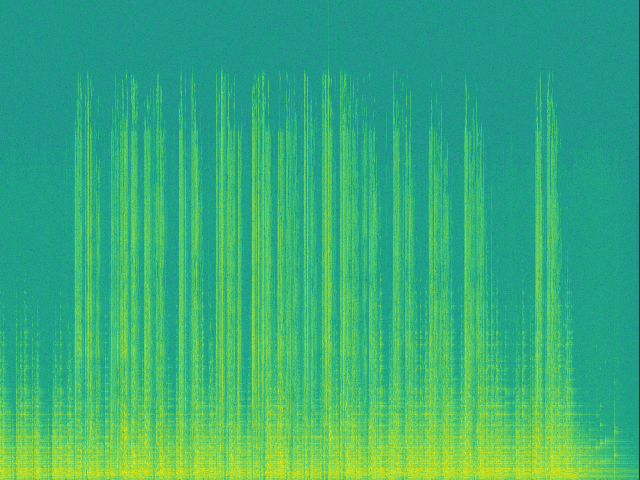
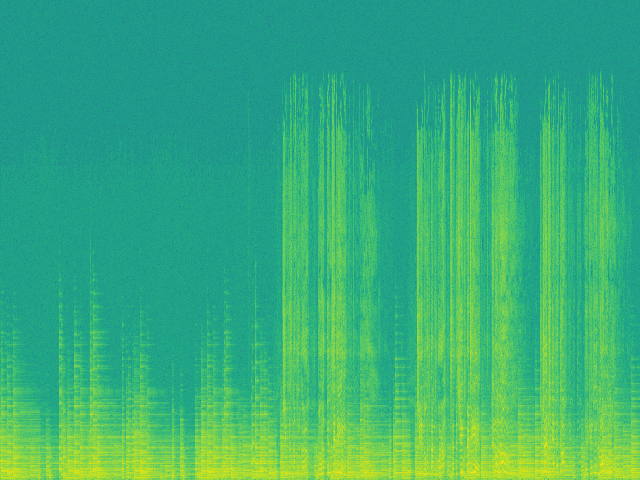
shortened the input song sample to 50 seconds so it processes faster

diff --git a/python/spectrogram.py b/python/spectrogram.py
@@ -1,8 +1,8 @@
 import sys
 import os, json
-# import numpy as np
-# import matplotlib.pyplot as plot
-# import audiosegment
+import numpy as np
+import matplotlib.pyplot as plot
+import audiosegment
 # from memory_profiler import profile
 
 # audiosegment.converter = '/usr/local/Cellar/ffmpeg/4.4_2'
@@ -15,27 +15,28 @@ import os, json
 # filename = "/Users/arthurdoelp/dev/projects/python-projects/music-vision/python/uploads/03_Baby_Cant_Leave_it_Alone.m4a"
 filename = '03_Baby_Cant_Leave_it_Alone.m4a'
 # filepath = os.path.abspath(os.path.join("python/uploads", filename))
-# filepath = os.path.abspath(os.path.join("uploads", filename))
+filepath = os.path.abspath(os.path.join("python/uploads", filename))
 file_id = filename[:-4]
-# # file_id = filename[13:-4]
-# # file_id = filename[69:-4]
-# # Create the audiosegment file
-# seg = audiosegment.from_file(filepath)
-# # Convert any 2 channel tracks to mono so that it can be converted into a spec
-# seg = seg.set_channels(1)
-# # Create the spectrogram
-# freqs, times, amplitudes = seg.spectrogram(window_length_s=.03, overlap=.5)
-# amplitudes = 10 * np.log10(amplitudes + 1e-9)
-# # Plot the spectrogram using time as the x axis, frequency as y axis and amplitude as color gradient
-# # plot.pcolormesh(times, freqs, amplitudes, shading='auto')
+# file_id = filename[13:-4]
+# file_id = filename[69:-4]
+# Create the audiosegment file
+seg = audiosegment.from_file(filepath)
+seg = seg[:50000]
+# Convert any 2 channel tracks to mono so that it can be converted into a spec
+seg = seg.set_channels(1)
+# Create the spectrogram
+freqs, times, amplitudes = seg.spectrogram(window_length_s=.03, overlap=.5)
+amplitudes = 10 * np.log10(amplitudes + 1e-9)
+# Plot the spectrogram using time as the x axis, frequency as y axis and amplitude as color gradient
 # plot.pcolormesh(times, freqs, amplitudes, shading='auto')
-# # Remove all axis graphics so we have just the image of the spectrogram contents and nothing else
-# plot.axis('off')
-# plot.subplots_adjust(left=0,right=1,bottom=0,top=1)
-# # Save the file to the prediction_image folder with the file name
-# # prediction_image_file_path = os.path.abspath("python/prediction_image") + "/" + file_id + '.png'
+plot.pcolormesh(times, freqs, amplitudes, shading='auto')
+# Remove all axis graphics so we have just the image of the spectrogram contents and nothing else
+plot.axis('off')
+plot.subplots_adjust(left=0,right=1,bottom=0,top=1)
+# Save the file to the prediction_image folder with the file name
+# prediction_image_file_path = os.path.abspath("python/prediction_image") + "/" + file_id + '.png'
 prediction_image_file_path = os.path.abspath("python/prediction_image") + "/" + file_id + '.png'
-# plot.savefig(prediction_image_file_path)
+plot.savefig(prediction_image_file_path)
 
 output = {
 "file_path": prediction_image_file_path
@@ -45,5 +46,6 @@ print(output)
 
 # if __name__ == '__main__':
 #     my_func()
+#### python -m memory_profiler example.py
 
 sys.stdout.flush()

diff --git a/python/train.py b/python/train.py
@@ -225,3 +225,6 @@ sys.stdout.flush()
 
 
 # https://stackoverflow.com/questions/56739322/pydub-cant-find-ffmpeg-although-its-installed-and-in-path
+# https://www.kaggle.com/prmohanty/python-how-to-save-and-load-ml-models
+# https://towardsdatascience.com/k-means-clustering-with-scikit-learn-6b47a369a83c
+# https://towardsdatascience.com/using-k-means-clustering-for-image-segregation-fd80bea8412d
